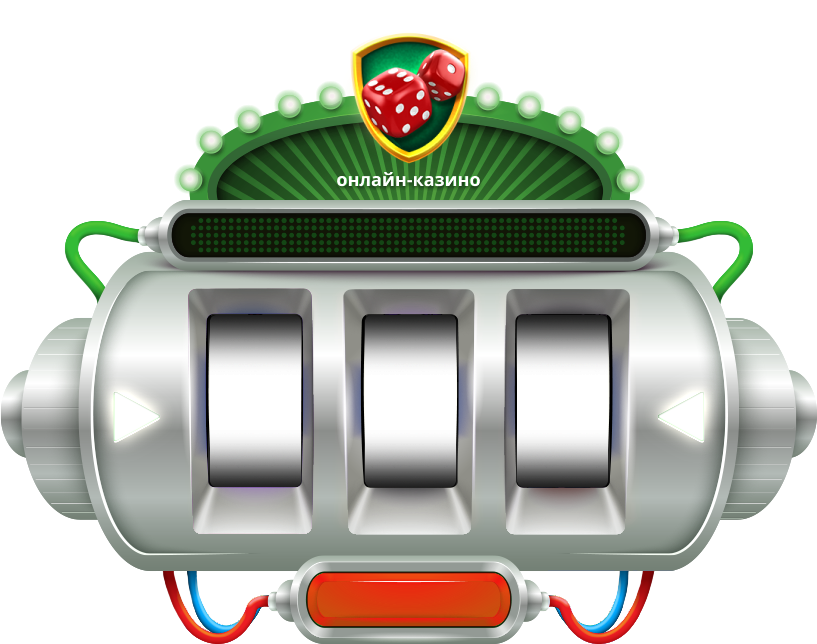
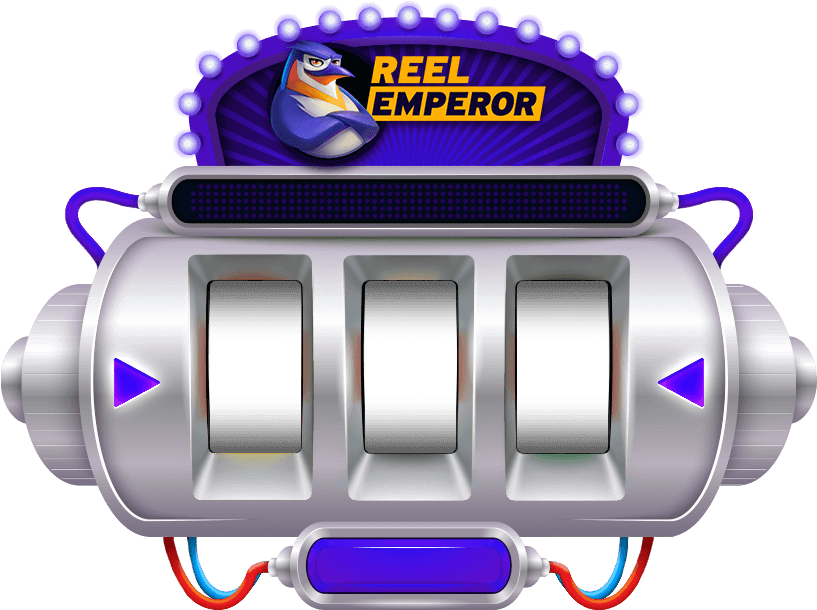
corrected

diff --git a/css/main.min.css b/css/main.min.css
@@ -1,1 +1,1 @@
-@-webkit-keyframes bluredAnimation{0%{opacity:0;-webkit-backdrop-filter:blur(0);backdrop-filter:blur(0)}to{opacity:1;-webkit-backdrop-filter:blur(50px);backdrop-filter:blur(50px)}}@keyframes bluredAnimation{0%{opacity:0;-webkit-backdrop-filter:blur(0);backdrop-filter:blur(0)}to{opacity:1;-webkit-backdrop-filter:blur(50px);backdrop-filter:blur(50px)}}@-webkit-keyframes popupAnimnation{0%,60%,75%,90%,to{-webkit-animation-timing-function:cubic-bezier(.215,.61,.355,1);animation-timing-function:cubic-bezier(.215,.61,.355,1)}0%{opacity:0;transform:translate3d(-50%,-3000px,0)}60%{opacity:1;transform:translate3d(-50%,25px,0)}75%{transform:translate3d(-50%,-10px,0)}90%{transform:translate3d(-50%,5px,0)}to{transform:translate3d(-50%,0,0);opacity:1}}@keyframes popupAnimnation{0%,60%,75%,90%,to{-webkit-animation-timing-function:cubic-bezier(.215,.61,.355,1);animation-timing-function:cubic-bezier(.215,.61,.355,1)}0%{opacity:0;transform:translate3d(-50%,-3000px,0)}60%{opacity:1;transform:translate3d(-50%,25px,0)}75%{transform:translate3d(-50%,-10px,0)}90%{transform:translate3d(-50%,5px,0)}to{transform:translate3d(-50%,0,0);opacity:1}}body,html{height:100%;width:100%;min-height:100vh;position:fixed}.body,.wrapperBlock{display:flex;flex-direction:column}.body{position:relative;font-family:'Open Sans',sans-serif;font-size:16px;font-weight:400;min-width:320px;color:#000;min-height:100vh;perspective:1000px;background:#172626 url(../image/background/BG.jpg) 50% 50% no-repeat;background-size:cover}.wrapperBlock{height:100%;justify-content:space-between}.bl_wrappen,.fullContent,.wrapperBlock{position:relative;width:100%}.fullContent{display:flex;flex-direction:row;justify-content:space-around}.bl_wrappen{height:100%}.main_content{position:relative;flex:1 0 auto;overflow:hidden;display:flex;flex-direction:column;justify-content:space-between}.main{clear:both;width:100%;padding-top:4px}.main_title{text-align:center;margin:10px 0;line-height:34px;color:#fff;font-size:34px}img{max-width:100%;height:auto}a{text-decoration:none;color:#fff}a:active,a:focus,a:hover{text-decoration:none;color:#000}button,p,ul{padding:0;margin:0}ul{list-style-type:none}button{border:0}input:focus::-moz-placeholder,textarea:focus::-moz-placeholder{opacity:0}input:focus:-ms-input-placeholder,input:focus::-ms-input-placeholder,textarea:focus:-ms-input-placeholder,textarea:focus::-ms-input-placeholder{opacity:0}input:focus::placeholder,textarea:focus::placeholder{opacity:0}input::-moz-placeholder,textarea::-moz-placeholder{opacity:1;-moz-transition:opacity .3s;transition:opacity .3s}input:-ms-input-placeholder,input::-ms-input-placeholder,textarea:-ms-input-placeholder,textarea::-ms-input-placeholder{opacity:1;-ms-transition:opacity .3s;transition:opacity .3s}input::placeholder,textarea::placeholder{opacity:1;transition:opacity .3s}input::-moz-focus-inner,input::-moz-focus-outer,textarea::-moz-focus-inner,textarea::-moz-focus-outer{border:0;outline:0}.hidden{display:none!important}.header{position:relative;width:100%;height:100px;background:url(../image/top_header.jpg) 50% 50% no-repeat;background-size:cover;text-align:center;display:flex;flex-direction:column;justify-content:center;align-items:center;z-index:11;box-shadow:0 6px 12px rgba(0,0,0,.45)}.header_mainPhrase{margin-top:-40px;font-weight:800;font-size:36px;line-height:49px;color:#feb403;text-shadow:0 4px 0 #b9043a,0 1px 0 #faff08}.header_text{margin:0 auto}.sub_text{color:#fff;font-style:normal;font-weight:600;font-size:22px;line-height:30px}.img_man,.img_penguin{position:absolute;top:50%;transform:translateY(-50%);z-index:3;-moz-user-select:none;-webkit-user-select:none;-ms-user-select:none;user-select:none}.img_penguin{left:0}.img_man{right:0}.canvas_wrapper{position:absolute;margin:0;top:192px;left:50%;transform:translateX(-50%);z-index:12;background-color:#000}.canvas_counter{display:inline-block;padding-top:1px;font-size:0;text-align:center}.icon-dollar{position:absolute;left:-22px;top:0;width:27.3px;height:40px;z-index:13}.bl_slot{position:relative;margin:0 auto;vertical-align:top;width:100%;max-width:822px;height:590px;z-index:10}.bl_slot:before,.bl_slot__workPlace{position:absolute;transform:translate(-50%,-50%);z-index:9}.bl_slot:before{content:'';top:11%;left:50%;width:1124px;height:218px;background:url(../image/decor.png) 50% 50% no-repeat}.bl_slot:after{content:"";position:absolute;top:0;left:0;width:100%;height:100%;background:url(../image/big_bg.png) 50% 50% no-repeat;background-size:contain;z-index:10}.bl_slot__workPlace{left:50.4%;top:60%;display:flex;flex-direction:row;justify-content:space-between;width:45%;height:198px;overflow:hidden}.bl_singleSlot{position:relative;width:100%;max-width:96px;height:100%}.bl_singleSlot:after,.bl_singleSlot:before{content:"";position:absolute;left:0;width:100%;height:24%;background-image:linear-gradient(to top,rgba(0,0,0,.6),transparent);z-index:11}.bl_singleSlot:before{bottom:0}.bl_singleSlot:after{top:-2px;transform:scale(1,-1)}.bl_singleSlot__img{background-color:#fff}.bl_singleSlot__img,.bl_singleSlot__img .slot{position:relative;width:100%}.btn_start{position:absolute;bottom:6px;left:50%;width:205px;height:55px;text-align:center!important;transform:translate(-50%,-10px);z-index:12;border-radius:30px;font-weight:900;font-size:28px;line-height:33px;display:flex;align-items:center;justify-content:center;letter-spacing:.09em;text-transform:uppercase;text-shadow:0 0 4px rgba(255,255,255,.57);transition:.15s all;background:0 0;color:#fff}.btn_start.active,.btn_start:hover{outline:0;transition:.1s all;text-shadow:1px 1px 2px #000}.bl_slot__bonuses{position:relative;margin:15px auto;z-index:3}.bl_slot__text{text-align:center;font-weight:700;font-size:22px;line-height:26px;color:#fff}.bl_slot__buttons,.btn_bonus{margin:20px auto 0;width:100%;display:flex;flex-direction:row;justify-content:space-between}.btn_bonus{position:relative;width:250px;max-width:250px;min-width:90px;min-height:96px;flex-direction:column;justify-content:center;align-items:center;outline:0;background:rgba(27,63,56,.5);border:1px solid #27ae60;border-radius:4px;color:#fff;overflow:hidden;text-align:center;z-index:2;margin:0 40px}.btn_bonus.active{background:#51a95b}.bonus_description,.bonus_main{position:relative;display:block;color:#f3fe26;z-index:4}.bonus_main{font-weight:900;line-height:35px;font-size:30px}.bonus_description{width:100%;font-weight:300}.coverLayer{position:fixed;top:0;left:0;width:100%;height:100%;background:rgba(9,11,54,.5);z-index:10}.coverLayer_animation{-webkit-animation:bluredAnimation .6s linear;animation:bluredAnimation .6s linear;-webkit-animation-fill-mode:forwards;animation-fill-mode:forwards}.bl_popup{position:absolute;top:22%;left:50%;transform:translateX(-50%);width:100%;max-width:415px;min-height:458px;display:flex;flex-direction:column;justify-content:center;align-items:center;background:#fffbf6;border:1px solid #219653;box-sizing:border-box;box-shadow:0 10px 20px rgba(29,29,29,.45);border-radius:10px;z-index:25}.popup_text{font-weight:700;font-size:22px;line-height:26px;color:#1e3030}.popup_text2{font-size:18px;line-height:21px;color:#1e3030}.popup_img{-o-object-fit:contain;object-fit:contain;margin-top:14px}.link_getBonus,.popup_desc{margin-top:11px;font-size:14px;line-height:16px;text-align:center;color:#2f3634}.link_getBonus{display:block;margin-top:45px;width:240px;height:46px;font-weight:500;line-height:46px;font-size:16px;color:#fff;background:#f4422a;border-radius:4px;text-transform:uppercase}.link_getBonus:focus,.link_getBonus:hover{color:#fff;background:#c72f11}.bl_popup__animation{-webkit-animation:popupAnimnation ease-out 1s;animation:popupAnimnation ease-out 1s;opacity:0;-webkit-animation-fill-mode:forwards;animation-fill-mode:forwards}.slotMachineNoTransition{transition:none!important}.slotMachineBlurFast{-webkit-filter:blur(5px);filter:blur(5px)}.slotMachineBlurMedium{-webkit-filter:blur(3px);filter:blur(3px)}.slotMachineBlurSlow{-webkit-filter:blur(2px);filter:blur(2px)}.slotMachineBlurTurtle{-webkit-filter:blur(1px);filter:blur(1px)}@media only screen and (max-width:1680px){.body{background-image:url(../../image/background/BG_1660.jpg)}.header{height:60px}.header_mainPhrase{margin-top:5px;font-size:32px;line-height:35px}.bl_slot{max-width:750px;height:510px}.sub_text{font-size:18px;line-height:24px}.canvas_wrapper{top:166px}.btn_start{bottom:-2px}}@media only screen and (max-width:1450px){.img_man,.img_penguin{top:100%;transform:translateY(-100%)}.bonus_description{font-size:12px}.header_mainPhrase{font-size:22px;line-height:20px}.sub_text{margin-top:6px;font-size:18px}.bl_slot{max-width:660px;height:462px}.bl_slot__bonuses{margin:12px auto 0}.canvas_wrapper{top:155px;text-align:center}.canvas_counter{width:66%;margin:0 auto}.bl_slot__workPlace{width:47%;height:156px}.bl_singleSlot{max-width:78px}.icon-dollar{width:19px;left:10px}.btn_start{font-size:26px;bottom:0;left:50%;width:174px;height:45px}.bl_slot__text{font-size:18px;line-height:28px;margin-bottom:10px}.bonus_main{font-size:18px}.btn_bonus{height:74px;min-height:74px}.bl_slot__buttons{max-width:620px;margin:0 auto}.bl_popup{top:12%}}@media only screen and (max-width:1280px){.header_mainPhrase{text-shadow:none}.bl_slot::before{display:none}.bonus_main span{font-size:13px}.bl_slot{max-width:296px;height:226px}.canvas_counter{width:38%}.canvas_wrapper{top:66px}.icon-dollar{height:15px;width:8px;left:40px}.btn_start{font-size:12px;bottom:-7px;left:50%;width:80px;height:30px}.bl_slot__workPlace{width:152px;top:56.2%;height:100px}.bl_singleSlot{max-width:45px}.bl_slot__buttons{max-width:730px}.bl_slot__bonuses{margin:34px auto 0}.bonus_main{font-size:24px}.btn_bonus{min-height:66px}}@media only screen and (max-width:1280px) and (max-height:410px){.header_mainPhrase{font-size:20px;line-height:18px}.sub_text{font-size:16px}.bl_slot__bonuses{margin:0 auto}}@media only screen and (max-width:768px){.canvas_counter,.icon-dollar{display:none}.bl_slot__buttons{max-width:590px}.canvas_wrapper{top:78px;width:95px;height:12px;background:#000 url(../image/jp.png) 50% 50% no-repeat;background-size:contain}.bl_popup{top:10%}.bl_slot{overflow:initial}}@media only screen and (max-width:600px){.bl_slot__buttons{max-width:500px}.bonus_main{font-size:20px;line-height:20px}.bonus_main span{display:block}.btn_bonus{margin:0 20px}}@media only screen and (max-width:550px){.body{background-image:url(../image/background/BG_580.jpg)}.bl_slot{height:220px}.bl_slot__bonuses{margin:12px auto 0}.bl_slot__workPlace{top:64.8%;width:151px}.img_man,.img_penguin{top:50%;transform:translateY(-50%)}.btn_bonus{margin:0 4px}.bl_singleSlot__img .slot{margin-top:-3px}.bl_slot__text{font-size:15px}.canvas_wrapper{top:75px;width:60px}.bonus_main{font-size:22px}.bl_slot__buttons{max-width:386px}.btn_start{background:url(../../image/btn_start.png);font-size:16px;line-height:30px;bottom:-8px;width:150px;height:34px;background-size:100%}}@media only screen and (max-width:500px){.bonus_main{font-size:20px}.main{height:calc(100% - 143px);display:flex;flex-direction:column;justify-content:center}}@media only screen and (max-width:450px){.main_content{padding-bottom:45px}.bonus_main{font-size:15px}.bonus_main span{font-size:0;position:relative;display:inline-block}.bonus_main span:after{content:"FS in";font-size:19px;font-weight:700}.bl_slot{height:272px}.canvas_wrapper{top:100px}.btn_start{bottom:8px;font-size:15px;line-height:30px}.bl_icon__text{margin-top:0;font-size:13px}.bl_slot__workPlace{top:62.5%;width:160px}.bonus_main,.btn_bonus{display:block}.bonus_main{margin-top:14px}.btn_bonus:first-child .bonus_main{margin-top:15px}.bl_decor__line{margin:4px auto}.bl_slot__text{font-size:18px}.btn_bonus{width:calc(100%/3 - 12px)}.bl_slot__bonuses{margin:10px auto}.bl_popup{max-width:340px;min-height:430px}.popup_img{width:calc(100% - 20px)}.popup_desc{width:220px}.link_getBonus{margin-top:25px}.bl_singleSlot__img .slot{max-width:40px}}@media only screen and (max-width:420px) and (max-height:600px){.btn_start{bottom:8px}}@media only screen and (max-width:420px){.img_man,.img_penguin{top:52%}}@media only screen and (max-width:420px) and (min-height:600px){.btn_start{bottom:12px}}@media only screen and (max-width:390px){.main{height:calc(100% - 100px)}.bl_slot{height:238px}.canvas_wrapper{top:82px}.img_man,.img_penguin{top:42%}.bonus_description{margin-top:10px}.btn_start{bottom:-12px}.bonus_description{font-size:11px}.btn_bonus{width:calc(100%/3)}}@media only screen and (max-width:380px) and (min-height:600px){.btn_start{bottom:0}}@media only screen and (max-width:380px) and (max-height:555px){.main{margin-top:30px}.btn_start{bottom:0}.img_man{top:48%}.img_penguin{top:50%;left:-20px}}@media only screen and (max-width:380px) and (min-height:800px){.main_content{padding-bottom:100px}}@media only screen and (max-width:375px){.bonus_description{letter-spacing:.28px;line-height:10px}.text_alreadyRegistered{line-height:14px}.bl_slot__workPlace{top:64.5%;width:160px}}@media only screen and (max-width:420px) and (min-height:600px){.wrapperBlock{height:100vh;overflow:hidden}.main_content{padding-bottom:0}.main{height:100%;justify-content:space-between}.canvas_wrapper{top:138px}.bl_slot__workPlace{top:60.4%}.bl_slot{height:350px}.btn_start{bottom:48px}.bl_slot__bonuses{margin-bottom:125px}}@media only screen and (max-width:360px){.btn_start{bottom:-10px}.bl_slot__bonuses{margin:10px auto}.bl_popup{max-width:310px;min-height:410px}}@media only screen and (max-width:360px) and (min-height:580px){.btn_start{bottom:46px}}@media only screen and (max-width:350px){.bl_slot__buttons{margin:20px auto 0}.header_mainPhrase{font-size:16px}.sub_text{font-size:12px}}@media only screen and (min-width:450px){body,html{position:initial}}
+@-webkit-keyframes bluredAnimation{0%{opacity:0;-webkit-backdrop-filter:blur(0);backdrop-filter:blur(0)}to{opacity:1;-webkit-backdrop-filter:blur(50px);backdrop-filter:blur(50px)}}@keyframes bluredAnimation{0%{opacity:0;-webkit-backdrop-filter:blur(0);backdrop-filter:blur(0)}to{opacity:1;-webkit-backdrop-filter:blur(50px);backdrop-filter:blur(50px)}}@-webkit-keyframes popupAnimnation{0%,60%,75%,90%,to{-webkit-animation-timing-function:cubic-bezier(.215,.61,.355,1);animation-timing-function:cubic-bezier(.215,.61,.355,1)}0%{opacity:0;transform:translate3d(-50%,-3000px,0)}60%{opacity:1;transform:translate3d(-50%,25px,0)}75%{transform:translate3d(-50%,-10px,0)}90%{transform:translate3d(-50%,5px,0)}to{transform:translate3d(-50%,0,0);opacity:1}}@keyframes popupAnimnation{0%,60%,75%,90%,to{-webkit-animation-timing-function:cubic-bezier(.215,.61,.355,1);animation-timing-function:cubic-bezier(.215,.61,.355,1)}0%{opacity:0;transform:translate3d(-50%,-3000px,0)}60%{opacity:1;transform:translate3d(-50%,25px,0)}75%{transform:translate3d(-50%,-10px,0)}90%{transform:translate3d(-50%,5px,0)}to{transform:translate3d(-50%,0,0);opacity:1}}html{height:100%;width:100%;position:fixed}.wrapperBlock,body{display:flex;flex-direction:column;height:100%}body,html{min-height:100vh}body{font-family:"Roboto",sans-serif;font-size:16px;font-weight:400;min-width:320px;color:#000;perspective:1000px;background:#090b36}.wrapperBlock{justify-content:space-between}.bl_wrappen,.fullContent,.wrapperBlock,body{position:relative;width:100%}.fullContent{display:flex;flex-direction:row;justify-content:space-around}.bl_wrappen{height:100%}.main_content{position:relative;flex:1 0 auto;overflow:hidden;display:flex;flex-direction:column;justify-content:center}.main{clear:both;width:100%;padding-top:4px}.main_title{text-align:center;margin:10px 0;line-height:34px;color:#fff;font-size:34px}img{max-width:100%;height:auto}a{text-decoration:none;color:#fff}a:active,a:focus,a:hover{text-decoration:none;color:#000}button,p,ul{padding:0;margin:0}ul{list-style-type:none}button{border:0}input:focus::-moz-placeholder,textarea:focus::-moz-placeholder{opacity:0}input:focus:-ms-input-placeholder,input:focus::-ms-input-placeholder,textarea:focus:-ms-input-placeholder,textarea:focus::-ms-input-placeholder{opacity:0}input:focus::placeholder,textarea:focus::placeholder{opacity:0}input::-moz-placeholder,textarea::-moz-placeholder{opacity:1;-moz-transition:opacity .3s;transition:opacity .3s}input:-ms-input-placeholder,input::-ms-input-placeholder,textarea:-ms-input-placeholder,textarea::-ms-input-placeholder{opacity:1;-ms-transition:opacity .3s;transition:opacity .3s}input::placeholder,textarea::placeholder{opacity:1;transition:opacity .3s}input::-moz-focus-inner,input::-moz-focus-outer,textarea::-moz-focus-inner,textarea::-moz-focus-outer{border:0;outline:0}.hidden{display:none!important}.header{position:relative;width:100%;z-index:3}.header_mainPhrase{width:100%;text-align:center;font-style:italic;font-weight:900;font-size:45px;line-height:53px;color:#fff}.header_text{margin:0 auto}.header_text span{color:#ffb712}.sub_text{color:#7d77e9;font-style:italic;font-weight:700;font-size:30px;line-height:35px}.img_man,.img_penguin{position:absolute;top:0;z-index:1;-moz-user-select:none;-webkit-user-select:none;-ms-user-select:none;user-select:none}.img_penguin{left:0}.img_man{right:0}.canvas_wrapper{position:absolute;margin:0;top:172px;left:50%;transform:translateX(-50%);z-index:12;background-color:#000}.canvas_counter{display:inline-block;padding-top:1px;font-size:0;text-align:center}.bl_slot:after,.icon-dollar{position:absolute;left:-22px;top:0;width:27.3px;height:40px;z-index:13}.bl_slot{position:relative;margin:0 auto;vertical-align:top;width:100%;max-width:822px;height:580px;z-index:4;-webkit-filter:drop-shadow(0 0 80px #4541a2);filter:drop-shadow(0 0 80px #4541a2);overflow:hidden}.bl_slot:after{content:"";left:0;width:100%;height:100%;background:url(../image/big_bg.png) 50% 50% no-repeat;background-size:contain;z-index:10}.bl_slot__workPlace{position:absolute;left:50.4%;top:60%;display:flex;flex-direction:row;justify-content:space-between;transform:translate(-50%,-50%);width:50.8%;height:198px;z-index:9;overflow:hidden}.bl_singleSlot{position:relative;width:100%;max-width:106px;height:100%}.bl_singleSlot:after,.bl_singleSlot:before{content:"";position:absolute;left:0;width:100%;height:24%;background-image:linear-gradient(to top,rgba(0,0,0,.6),transparent);z-index:11}.bl_singleSlot:before{bottom:0}.bl_singleSlot:after{top:-2px;transform:scale(1,-1)}.bl_singleSlot__img{background-color:#fff}.bl_singleSlot__img,.bl_singleSlot__img .slot{position:relative;width:100%}.btn_start{position:absolute;bottom:6px;left:50%;width:205px;height:55px;text-align:center!important;transform:translate(-50%,-10px);z-index:12;border-radius:30px;font-weight:900;font-size:28px;line-height:33px;display:flex;align-items:center;justify-content:center;letter-spacing:.09em;text-transform:uppercase;text-shadow:0 0 4px rgba(255,255,255,.57);transition:.15s all;background:#b90ad8 url(../image/btnStart.png) 50% 50% no-repeat;background-size:contain;color:#fff;-webkit-filter:brightness(1);filter:brightness(1)}.btn_start.active,.btn_start:hover{outline:0;transition:.1s all;-webkit-filter:brightness(1.1);filter:brightness(1.1)}.bl_slot__bonuses{position:relative;margin:15px auto 0;z-index:3}.bl_slot__text{text-align:center;font-weight:700;font-size:22px;line-height:26px;color:#abb7e0}.bl_slot__buttons{margin:20px auto 0;width:100%;max-width:784px;display:flex;flex-direction:row;justify-content:space-between}.btn_bonus{position:relative;width:calc(100%/3 - 40px);max-width:250px;min-width:90px;min-height:96px;display:flex;flex-direction:column;justify-content:center;align-items:center;outline:0;background:linear-gradient(to top,#403ab8 0,#403ab8 12%,#8c86ff 100%);border-radius:8px;color:#fff;overflow:hidden;text-align:center;z-index:2}.btn_bonus:after{content:'';position:absolute;top:1px;left:1px;width:calc(100% - 2px);height:calc(100% - 2px);background:#171a3e;border-radius:8px;z-index:2}.btn_bonus.active:after{background:#403ab8;box-shadow:0 5px 10px #403ab8}.bonus_description,.bonus_main{position:relative;display:block;font-weight:900;z-index:4}.bonus_main{line-height:35px;font-size:30px}.bonus_main span{display:inline-block;font-weight:400;font-size:16px}.bonus_description{width:100%;color:#8f8aec}.bonus_description__hit{font-size:26px}.coverLayer{position:fixed;top:0;left:0;width:100%;height:100%;background:rgba(9,11,54,.5);z-index:10}.coverLayer_animation{-webkit-animation:bluredAnimation .6s linear;animation:bluredAnimation .6s linear;-webkit-animation-fill-mode:forwards;animation-fill-mode:forwards}.bl_popup,.bl_popup:after{position:absolute;border-radius:10px}.bl_popup{top:22%;left:50%;transform:translateX(-50%);width:100%;max-width:415px;min-height:458px;display:flex;flex-direction:column;justify-content:center;align-items:center;background:linear-gradient(to bottom,#403ab8 0,#403ab8 12%,#8c86ff 100%);box-shadow:0 10px 20px rgba(17,0,64,.45);z-index:25}.bl_popup:after{content:'';top:1px;left:1px;width:calc(100% - 2px);height:calc(100% - 2px);background:#403ab8;z-index:26}.bl_popup>*{position:relative;z-index:27}.popup_text{font-weight:700;font-size:22px;line-height:26px;color:#fff}.popup_text2{font-size:18px;line-height:21px;color:#b7b2ff}.popup_img{-o-object-fit:contain;object-fit:contain;margin-top:14px}.link_getBonus,.popup_desc{margin-top:11px;text-align:center;font-size:14px;line-height:16px;color:#b7b3ff}.link_getBonus{display:block;margin-top:45px;width:240px;height:40px;font-weight:500;line-height:40px;font-size:16px;color:#fff;background:linear-gradient(270deg,#d44784 0,#cb41a3 100%);border-radius:22px}.link_getBonus:focus,.link_getBonus:hover{color:#fff;background:linear-gradient(270deg,#d43171 0,#a73378 100%)}.bl_popup__animation{-webkit-animation:popupAnimnation ease-out 1s;animation:popupAnimnation ease-out 1s;opacity:0;-webkit-animation-fill-mode:forwards;animation-fill-mode:forwards}.slotMachineNoTransition{transition:none!important}.slotMachineBlurFast{-webkit-filter:blur(5px);filter:blur(5px)}.slotMachineBlurMedium{-webkit-filter:blur(3px);filter:blur(3px)}.slotMachineBlurSlow{-webkit-filter:blur(2px);filter:blur(2px)}.slotMachineBlurTurtle{-webkit-filter:blur(1px);filter:blur(1px)}@media only screen and (max-width:1450px){.header_text{margin-top:10px}.bonus_description{font-size:12px}.bonus_description__hit{font-size:22px}.header_mainPhrase{font-size:22px;line-height:20px}.sub_text{margin-top:6px;font-size:18px}.bl_slot{max-width:660px;height:462px}.bl_slot__bonuses{margin:12px auto 0}.canvas_wrapper{top:140px;text-align:center}.canvas_counter{width:66%;margin:0 auto}.bl_slot__workPlace{width:47%;height:156px}.bl_singleSlot{max-width:78px}.icon-dollar{width:19px;left:10px}.btn_start{font-size:26px;bottom:0;left:50%;width:174px;height:45px}.bl_slot__text{font-size:18px;line-height:28px;margin-bottom:10px}.bonus_main{font-size:18px}.btn_bonus{height:74px;min-height:74px}.bl_slot__buttons{max-width:620px;margin:0 auto}.bl_popup{top:12%}}@media only screen and (max-width:1280px){.bonus_main span{font-size:13px}.bl_slot{max-width:296px;height:226px}.canvas_counter{width:35%}.canvas_wrapper{top:66px}.icon-dollar{height:15px;width:8px;left:40px}.btn_start{font-size:12px;bottom:-7px;left:50%;width:80px;height:30px}.bl_slot__workPlace{width:158px;top:57.4%;height:100px}.bl_singleSlot{max-width:45px}.bl_slot__buttons{max-width:584px}.bl_slot__bonuses{margin:34px auto 0}.bonus_main{font-size:24px}.btn_bonus{min-height:66px}}@media only screen and (max-width:1280px) and (max-height:410px){.header_mainPhrase{font-size:20px;line-height:18px}.sub_text{font-size:16px}.bl_slot__bonuses{margin:0 auto}}@media only screen and (max-width:768px){.canvas_counter,.icon-dollar{display:none}.canvas_wrapper{top:70px;width:90px;height:14px;background:#000 url(../image/jp.png) 50% 50% no-repeat;background-size:contain}.bl_popup{top:10%}.bl_slot{overflow:initial}}@media only screen and (max-width:600px){.bl_slot__buttons{max-width:500px}.bonus_main{font-size:20px;line-height:20px}.bonus_main span{display:block}.bonus_description__hit{font-size:19px}}@media only screen and (max-width:550px){.bl_slot{height:220px}.bl_slot__bonuses{margin:12px auto 0}.bl_slot__workPlace{top:60.8%;width:156px}.img_man,.img_penguin{top:50%;transform:translateY(-50%)}.btn_bonus{width:calc(100%/3 - 6px)}.bonus_description__hit,.btn_start{font-size:16px}.btn_start{line-height:30px}.bl_singleSlot__img .slot{margin-top:-3px}.bl_slot__text{font-size:15px}.canvas_wrapper{top:53px;width:60px}.bonus_main{font-size:22px}.bl_slot__buttons{max-width:386px}.btn_start{bottom:-8px;width:150px;height:34px;background-size:100%}}@media only screen and (max-width:500px){.bonus_main{font-size:20px}.main_content{padding-bottom:40px;padding-top:43px}.main{height:calc(100% - 143px);display:flex;flex-direction:column;justify-content:center}}@media only screen and (max-width:450px){.main_content{padding-top:20px;padding-bottom:45px}.bonus_main{font-size:15px}.bonus_main span{font-size:0;position:relative;display:inline-block}.bonus_main span:after{content:"FS in";font-size:19px;font-weight:700}.bl_slot{height:272px}.canvas_wrapper{top:92px}.btn_start{bottom:15px;font-size:15px;line-height:30px}.bl_icon__text{margin-top:0;font-size:13px}.bl_slot__workPlace{top:62.5%;width:160px}.bonus_main,.btn_bonus{display:block}.bonus_main{margin-top:14px}.btn_bonus:first-child .bonus_main{margin-top:15px}.bl_decor__line{margin:4px auto}.bl_slot__text{font-size:18px}.btn_bonus{width:calc(100%/3 - 12px)}.bl_slot__bonuses{margin:10px auto}.bl_popup{max-width:340px;min-height:430px}.popup_img{width:calc(100% - 20px)}.popup_desc{width:220px}.link_getBonus{margin-top:25px}.bl_singleSlot__img .slot{max-width:40px}}@media only screen and (max-width:420px) and (max-height:600px){.btn_start{bottom:8px}}@media only screen and (max-width:420px){.img_man,.img_penguin{top:37%}}@media only screen and (max-width:420px) and (min-height:600px){.btn_start{bottom:12px}}@media only screen and (max-width:390px){.header{margin-top:40px}.main{height:calc(100% - 100px)}.bl_slot{height:238px}.canvas_wrapper{top:76px}.img_man,.img_penguin{top:42%}.btn_bonus:nth-of-type(2) .bonus_description,.btn_bonus:nth-of-type(3) .bonus_description{margin-top:10px}}@media only screen and (max-width:380px) and (min-height:600px){.btn_start{bottom:0}}@media only screen and (max-width:380px) and (max-height:555px){.main{margin-top:30px}.btn_start{bottom:0}.img_man,.img_penguin{top:48%}}@media only screen and (max-width:380px) and (min-height:800px){.main_content{padding-bottom:100px}}@media only screen and (max-width:375px){.bonus_description{letter-spacing:.28px;line-height:10px}.text_alreadyRegistered{line-height:14px}.bl_slot__workPlace{top:64.5%;width:160px}}@media only screen and (max-width:380px) and (min-height:600px){.header{margin-top:-75px}.wrapperBlock{height:100vh;overflow:hidden}.main_content{padding-top:0;padding-bottom:0}.main{height:100%;justify-content:space-between}.canvas_wrapper{top:132px}.bl_slot__workPlace{top:59.5%}.bl_slot{height:350px}.btn_start{bottom:50px}.bl_slot__bonuses{margin-bottom:40px}}@media only screen and (max-width:360px){.btn_start{bottom:-6px}.bl_slot__bonuses{margin:10px auto}.bl_popup{max-width:310px;min-height:410px}}@media only screen and (max-width:350px){.bl_slot{display:block!important;top:initial;left:initial;margin:0;opacity:1}.bl_slot__buttons{margin:20px auto 0}.btn_start{bottom:-4px}.canvas_wrapper{top:65px}.header_mainPhrase{font-size:16px}.sub_text{font-size:12px}}@media only screen and (min-width:450px){body,html{position:initial}}

diff --git a/index1.html b/index1.html
@@ -1,5 +1,5 @@
 <!DOCTYPE html>
-<html lang="RU">
+<html lang="EN">
 
 <head>
     <meta charset="utf-8">
@@ -39,10 +39,10 @@
 
     <div class="main_content">
         <header id="header" class="header">
-            <h1 class="header_mainPhrase header_text">Выигрывай с <span>Reel Emperor!</span></h1>
-            <p class="header_mainPhrase sub_text js-mainPhrase">Испытай удачу и получи призы!</p>
-            <p class="header_mainPhrase sub_text js-mainPhrase hidden">Осталось попыток: 1/2</p>
-            <p class="header_mainPhrase sub_text js-mainPhrase hidden">Осталось попыток: 0/2</p>
+            <h1 class="header_mainPhrase header_text">Win Big like a <span>Reel Emperor!</span></h1>
+            <p class="header_mainPhrase sub_text js-mainPhrase">Get massive rewards</p>
+            <p class="header_mainPhrase sub_text js-mainPhrase hidden">1/2 spin left</p>
+            <p class="header_mainPhrase sub_text js-mainPhrase hidden">0/2 spin left</p>
         </header>
 
         <main class="main">
@@ -132,26 +132,26 @@
                 </div>
 
 
-                <button class="btn_start js-start" type="button">старт</button>
+                <button class="btn_start js-start" type="button">Go</button>
             </div>
 
 
             <div class="bl_slot__bonuses">
-                <p class="bl_slot__text">Ваши бонусы</p>
+                <p class="bl_slot__text">Your Bonus offers</p>
 
                 <div class="bl_slot__buttons">
                     <button class="btn_bonus" type="button">
-                        <span class="bonus_main">50 <span>фриспинов в игре</span></span>
-                        <span class="bonus_description  bonus_description__hit ">Hit in Vegas</span>
+                        <span class="bonus_main">50 <span>FS in</span></span>
+                        <span class="bonus_description  bonus_description__hit ">Hit in Vegas slot</span>
                     </button>
 
                     <button class="btn_bonus" type="button">
                         <span class="bonus_main">100%</span>
-                        <span class="bonus_description">на первый депозит</span>
+                        <span class="bonus_description">on 1st Deposit</span>
                     </button>
                     <button class="btn_bonus" type="button">
-                        <span class="bonus_main">25</span>
-                        <span class="bonus_description">фриспинов без депозита</span>
+                        <span class="bonus_main">25 FS</span>
+                        <span class="bonus_description">without Deposit</span>
                     </button>
                 </div>
             </div>
@@ -166,11 +166,11 @@
 
 <div class="coverLayer hidden"></div>
 <div class="bl_popup bl_popup__animation hidden">
-    <p class="popup_text">Поздравляем!</p>
-    <p class="popup_text2">Вы выиграли</p>
-    <img class="popup_img" src="image/bonus/bonus_ru.png" alt="Bonuses image">
-    <p class="popup_desc">минимальная сумма депозита 1500 ₴ / 4500 ₽/ 50 € / 50 $</p>
-    <a class="link_getBonus" href="http://reelem.searchmirrors.com/">Забрать приз</a>
+    <p class="popup_text">Congratulations!</p>
+    <p class="popup_text2">You won</p>
+    <img class="popup_img" src="image/bonus/bonus_eng.png" alt="Bonuses image">
+    <p class="popup_desc">The minimum deposit amount is 50 € / 50 $ / 1500 ₴ / 4500 ₽</p>
+    <a class="link_getBonus" href="http://reelem.searchmirrors.com/">Get Bonus</a>
 </div>
 
 <script src="libs/jquery.min.js"></script>

diff --git a/js/common.min.js b/js/common.min.js
@@ -84,7 +84,7 @@ window.onload = function () {
                             rx + r, y + r, r * 0.45, rx + r, y + r, d * 0.58
                         );
 
-                        gDot.addColorStop(0, (mask & (1 << bit)) ? '#44E247' : '#000000');
+                        gDot.addColorStop(0, (mask & (1 << bit)) ? '#FFB100' : '#000000');
 
                         try {
                             gDot.addColorStop(1, '#0000');
@@ -122,7 +122,7 @@ window.onload = function () {
 
     var machine1 = new SlotMachine(el1, {
         active: 1,
-        spins: 6,
+        spins: 4,
         direction: "down",
         delay: 500,
 
@@ -214,7 +214,77 @@ window.onload = function () {
 
         stepThree();
 
+        ///////////////////////
     });
+
+
+
+
+
+//     var mql = window.matchMedia("(orientation: portrait)");
+//
+// // If there are matches, we're in portrait
+//     if(mql.matches) {
+//         // Portrait orientation
+//         alert('Portrait');
+//
+//     } else {
+//         // Landscape orientation
+//         alert('Landscape');
+//     }
+//
+// // Add a media query change listener
+//     mql.addListener(function(m) {
+//         if(m.matches) {
+//             // Changed to portrait
+//             alert('Portrait');
+//         }
+//         else {
+//             // Changed to landscape
+//             alert('Landscape');
+//         }
+//     });
+
+
+    //// http://www.williammalone.com/articles/html5-javascript-ios-orientation/
+
+/*
+    var stop_mobile_scroll = true;
+
+    function noScroll() {
+        $(".no-scroll").on('touchmove', function (e) {
+
+            alert("stop_mobile_scroll = " + stop_mobile_scroll);
+            if (stop_mobile_scroll) {
+                e.preventDefault();
+            }
+        });
+    }
+
+
+    var mql = window.matchMedia("(orientation: portrait)");
+
+
+    if (mql.matches) {
+        noScroll();
+    }
+
+    window.onorientationchange = readDeviceOrientation;
+
+    function readDeviceOrientation() {
+
+        if (Math.abs(window.screen.orientation) === 90) {
+            // alert('Landscape');
+           stop_mobile_scroll = false;
+            noScroll();
+        } else {
+            // alert('Portrait');
+            noScroll();
+        }
+    }
+
+ */
+
 
 
 
